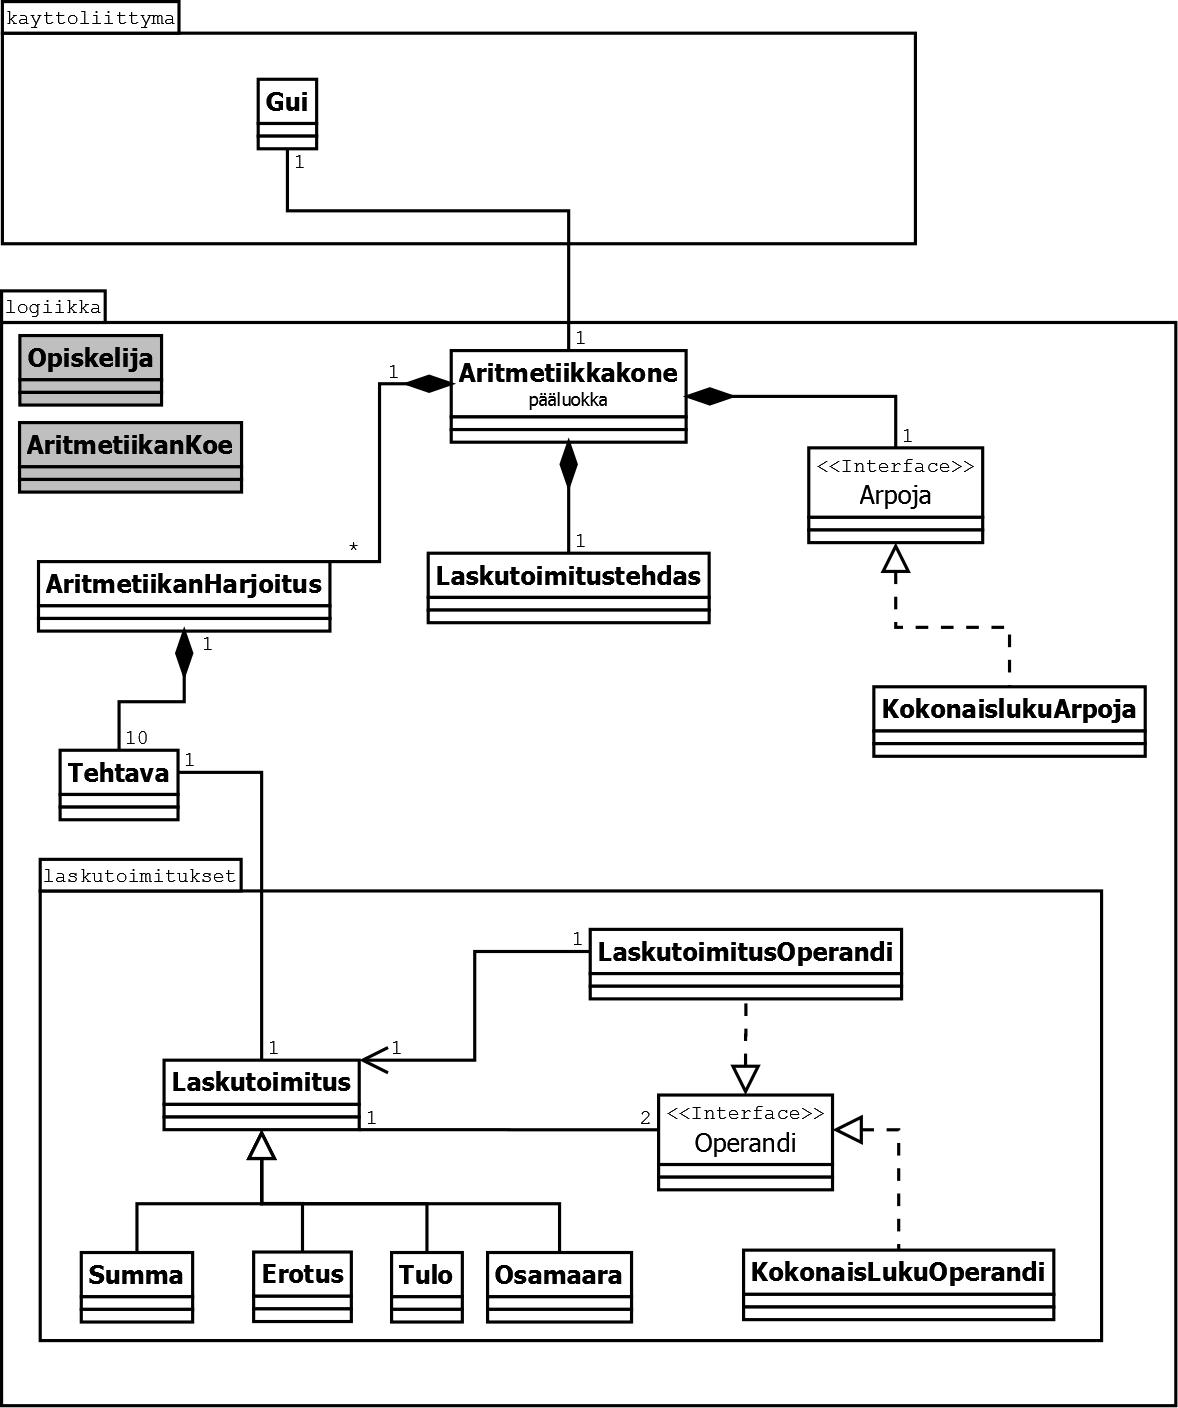
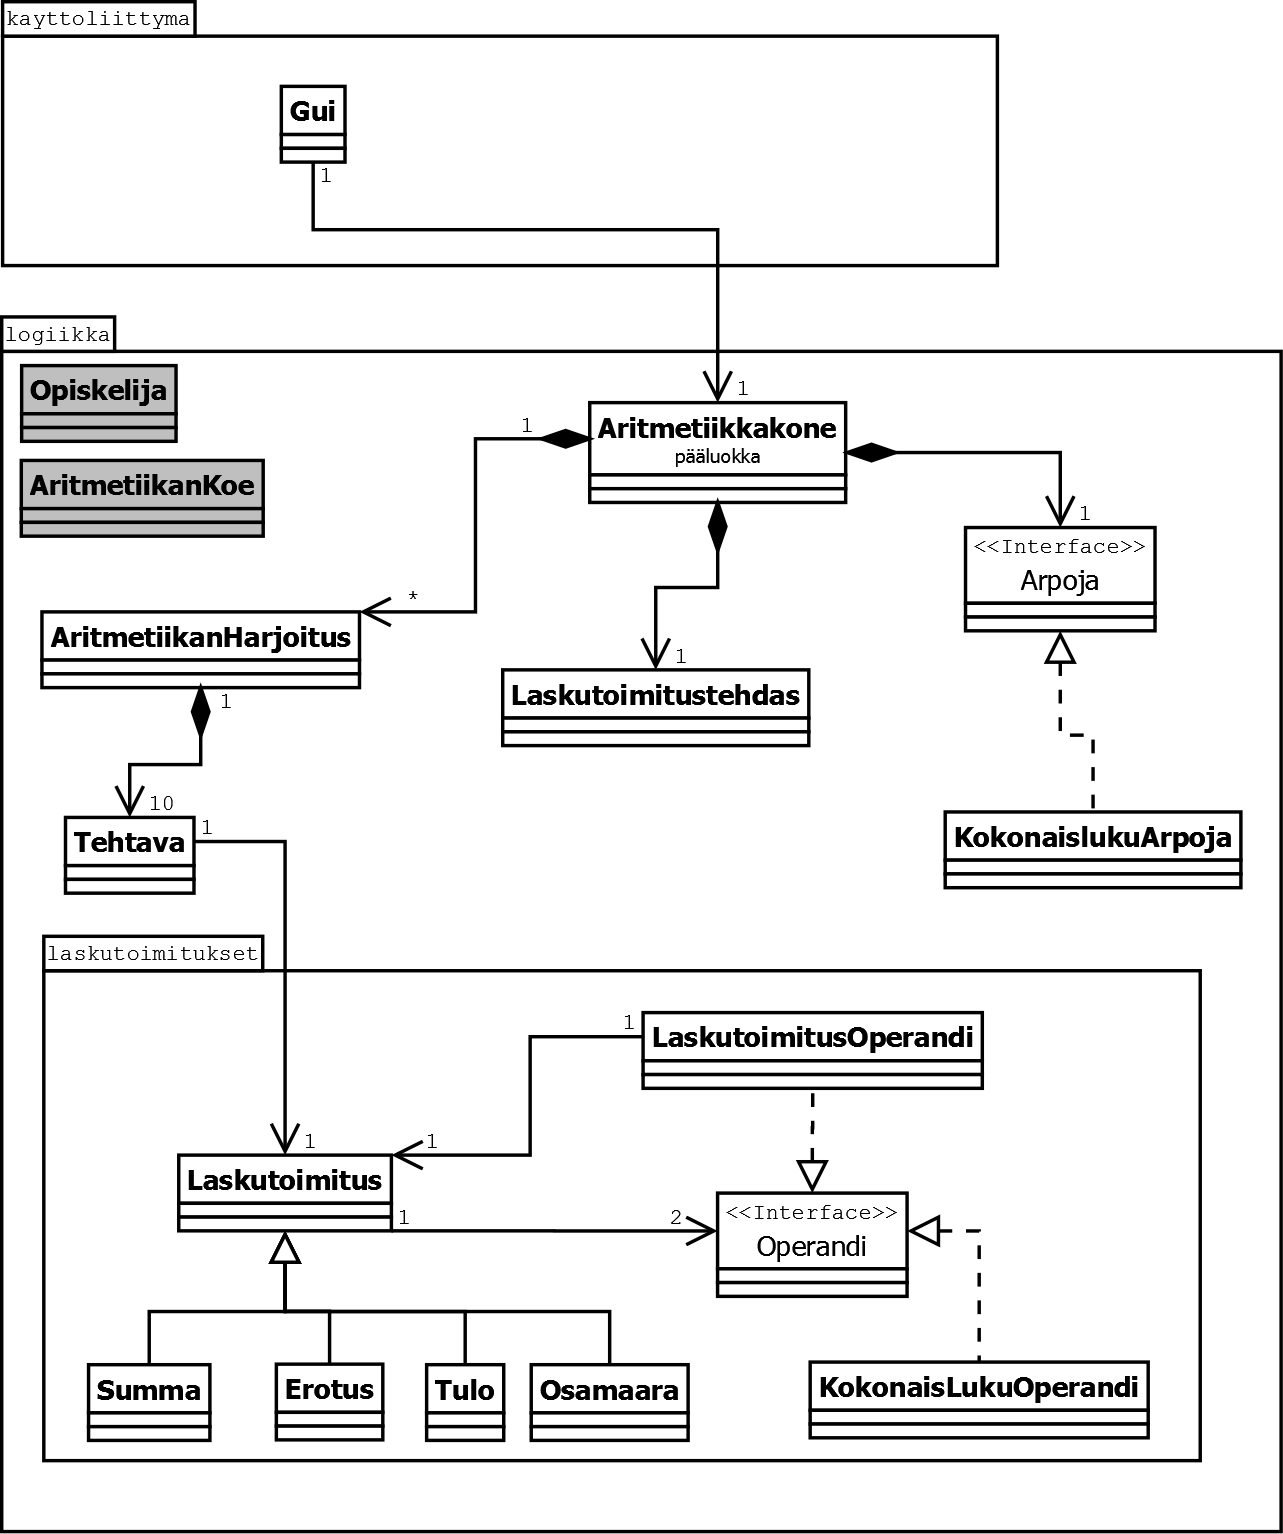
suunnat lisatty luokkakaavioon JA Laskutoimitustehtaan metodeille single resposibilty

diff --git a/AritmetiikanHarjoittelua/src/main/java/AritmetiikanHarjoittelua/logiikka/Laskutoimitustehdas.java b/AritmetiikanHarjoittelua/src/main/java/AritmetiikanHarjoittelua/logiikka/Laskutoimitustehdas.java
@@ -73,38 +73,49 @@ public class Laskutoimitustehdas {
         int arvottuLuku2 = this.arpoja.kokonaisluku(-10, 10);
 
         if (laskutoimitus.onPeruslaskutoimitus()) {
-
-            laskutoimitus.setOperandi1(new KokonaisLukuOperandi(arvottuLuku1));
-
-            // jakaja ei saa olla nolla            
-            if (laskutoimitus.getTyyppi().equals("j") && arvottuLuku2 == 0) {
-                arvottuLuku2 = 1;
-            }
-            laskutoimitus.setOperandi2(new KokonaisLukuOperandi(arvottuLuku2));
-
-            if (laskutoimitus.getTyyppi().equals("j")) {
-                laskutoimitus.setOperandi1(new KokonaisLukuOperandi(arvottuLuku1 * arvottuLuku2));
-            }
-
+            asetaKokonaisLukuOperandit(laskutoimitus, arvottuLuku1, arvottuLuku2);
         } else if (!laskutoimitus.onPeruslaskutoimitus()) {
-
-            Operandi operandi1 = new LaskutoimitusOperandi(this.uusiLaskutoimitus("a"), laskutoimitus.getTyyppi());
-            Operandi operandi2 = new LaskutoimitusOperandi(this.uusiLaskutoimitus("a"), laskutoimitus.getTyyppi());
-
-            if (laskutoimitus.getTyyppi().equals("j")) {
-                // jakaja ei saa olla nolla
-                while (operandi2.getArvo() == 0) {
-                    operandi2 = new LaskutoimitusOperandi(this.uusiLaskutoimitus("a"), laskutoimitus.getTyyppi());
-                }
-                // yksinkertaistetaan hieman: jakolaskussa operandi1 on aina LukuOperandi
-                operandi1 = new KokonaisLukuOperandi(operandi2.getArvo() * arvottuLuku1);
-            }
-
-            laskutoimitus.setOperandi1(operandi1);
-            laskutoimitus.setOperandi2(operandi2);
-
+            asetaLaskutoimitusOperandit(laskutoimitus, arvottuLuku1);
         } else {
             throw new LaskToimTyypEiLoydyException();
         }
+    }
+
+    private void asetaKokonaisLukuOperandit(Laskutoimitus laskutoimitus, int luku1, int luku2) throws LaskToimTyypEiLoydyException {
+
+        Operandi operandi1 = new KokonaisLukuOperandi(luku1);
+        Operandi operandi2 = new KokonaisLukuOperandi(luku2);
+
+        // jakolasku
+        if (laskutoimitus.getTyyppi().equals("j")) {
+            // jakolaskun operandi2 eli jakaja ei saa olla nolla            
+            if (luku2 == 0) {
+                luku2 = 1;
+                operandi2 = new KokonaisLukuOperandi(luku2);
+            }
+            // asetetaan jakolaskun operandi1 eli jaettava niin että tulos eli osamaara on kokonaisluku
+            operandi1 = new KokonaisLukuOperandi(luku1 * luku2);
+        }
+
+        laskutoimitus.setOperandi1(operandi1);
+        laskutoimitus.setOperandi2(operandi2);
+    }
+
+    private void asetaLaskutoimitusOperandit(Laskutoimitus paaLaskutoimitus, int luku1) throws LaskToimTyypEiLoydyException {
+
+        Operandi operandi1 = new LaskutoimitusOperandi(this.uusiLaskutoimitus("a"), paaLaskutoimitus.getTyyppi());
+        Operandi operandi2 = new LaskutoimitusOperandi(this.uusiLaskutoimitus("a"), paaLaskutoimitus.getTyyppi());
+
+        if (paaLaskutoimitus.getTyyppi().equals("j")) {
+            // jakaja ei saa olla nolla
+            while (operandi2.getArvo() == 0) {
+                operandi2 = new LaskutoimitusOperandi(this.uusiLaskutoimitus("a"), paaLaskutoimitus.getTyyppi());
+            }
+            // yksinkertaistetaan hieman: jakolaskussa operandi1 on aina KokonaisLukuOperandi
+            operandi1 = new KokonaisLukuOperandi(operandi2.getArvo() * luku1);
+        }
+
+        paaLaskutoimitus.setOperandi1(operandi1);
+        paaLaskutoimitus.setOperandi2(operandi2);
     }
 }

diff --git a/AritmetiikanHarjoittelua/src/main/java/AritmetiikanHarjoittelua/logiikka/laskutoimitukset/Laskutoimitus.java b/AritmetiikanHarjoittelua/src/main/java/AritmetiikanHarjoittelua/logiikka/laskutoimitukset/Laskutoimitus.java
@@ -36,15 +36,6 @@ public class Laskutoimitus {
         this.onPeruslaskutoimitus = totuusarvo;
     }
     
-//    ei kaytossa
-//    public Operandi getOperandi1() {
-//        return this.operandi1;
-//    }
-//
-//    public Operandi getOperandi2() {
-//        return this.operandi2;
-//    }
-
     public int getOperandi1Arvo() {
         return this.operandi1.getArvo();
     }

diff --git a/AritmetiikanHarjoittelua/src/main/java/AritmetiikanHarjoittelua/logiikka/laskutoimitukset/Operandi.java b/AritmetiikanHarjoittelua/src/main/java/AritmetiikanHarjoittelua/logiikka/laskutoimitukset/Operandi.java
@@ -10,11 +10,4 @@ public interface Operandi {
 
     public String getMerkkijono();
 
-//    public void setArvo(int luku);
-//
-//    public void setMerkkijono(String merkkijono);
-//
-//    public boolean onLuku();
-//
-//    public String getLaskutoimitustyyppi();
 }
